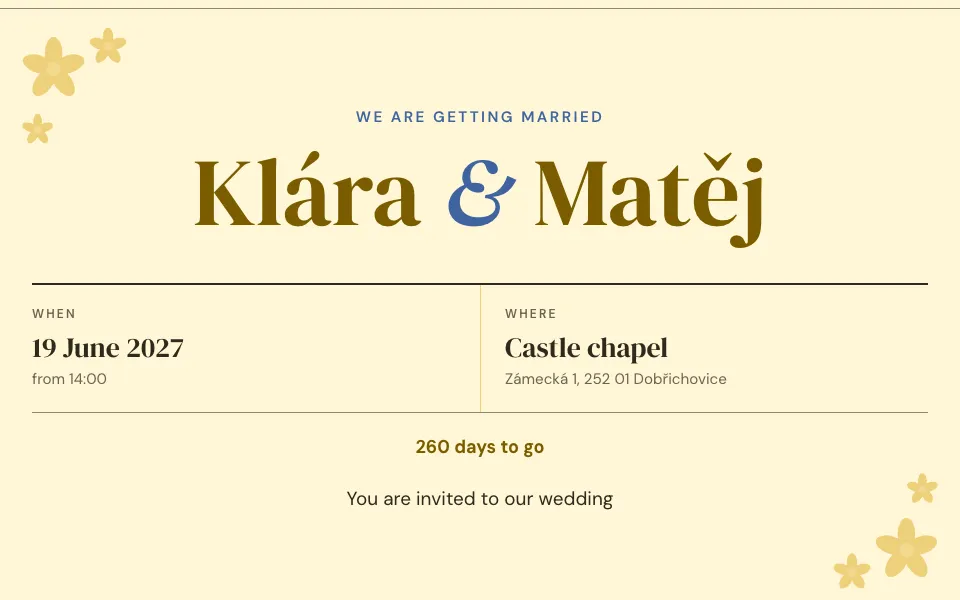
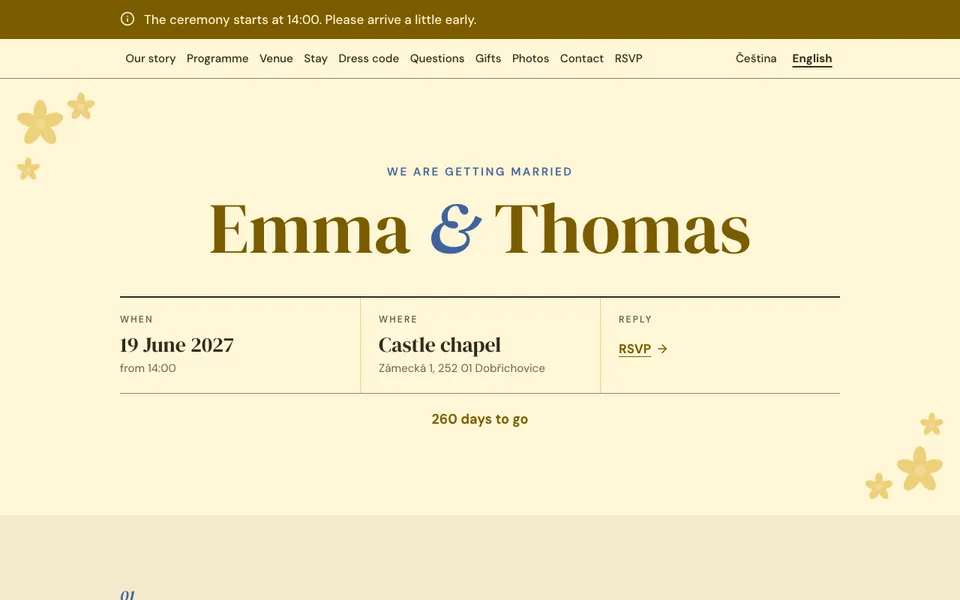
EN verze úvodního webu: ukázkový pár Emma a Thomas (formulář, adresa, snímky šablon, sdílený obrázek)
- adresa v náhledu hero používá anglickou spojku (emma-and-thomas)
- nové snímky šablon *-en.webp a public/og/se-vezmou-en.png
- docs/team.md: výjimka z ukázkových jmen pro anglickou verzi

Claude-Session: https://claude.ai/code/session_0194r2FrtvQ9j5deBs7E6sNY

diff --git a/e2e/landing.e2e.ts b/e2e/landing.e2e.ts
@@ -145,14 +145,18 @@ for (const locale of locales) {
 
       const hero = page.locator("section[aria-labelledby='hero-title']");
       const preview = hero.getByTestId("address-preview");
-      await expect(preview).toHaveText("klara-a-matej.se-vezmou.cz");
+      await expect(preview).toHaveText(
+        locale.code === "cs" ? "klara-a-matej.se-vezmou.cz" : "emma-and-thomas.se-vezmou.cz",
+      );
       await hero
         .getByLabel(locale.code === "cs" ? "První jméno" : "Your name", { exact: true })
         .fill("Šárka");
       await hero
         .getByLabel(locale.code === "cs" ? "Druhé jméno" : "Your partner’s name")
         .fill("Ondřej");
-      await expect(preview).toHaveText("sarka-a-ondrej.se-vezmou.cz");
+      await expect(preview).toHaveText(
+        locale.code === "cs" ? "sarka-a-ondrej.se-vezmou.cz" : "sarka-and-ondrej.se-vezmou.cz",
+      );
 
       const templates = hero.getByRole("group", {
         name: locale.code === "cs" ? "Šablona náhledu" : "Preview template",
@@ -245,7 +249,7 @@ for (const locale of locales) {
       await extra.screenshot({ path: test.info().outputPath(`cim-se-lisime-${locale.code}.png`) });
     });
 
-    test("šablony: osm skutečných snímků se jmény Klára a Matěj", async ({ page }) => {
+    test("šablony: osm skutečných snímků se jmény ukázkového páru", async ({ page }) => {
       await page.goto(pageUrl(HOSTS.marketing, locale.path));
       const previews = page.locator("#templates img");
       await expect(previews).toHaveCount(8);

diff --git a/src/components/landing/hero-studio.tsx b/src/components/landing/hero-studio.tsx
@@ -29,7 +29,7 @@ export interface HeroStudioProps {
 /**
  * Hero s živým náhledem: jména z formuláře se hned propíšou do adresy a do náhledu vybrané šablony.
  * Náhled je ozdoba (čtečky ho přeskočí); adresa v liště a přepínač šablon jsou přístupné.
- * Bez JavaScriptu zůstane formulář funkční (GET na průvodce) a náhled ukáže Kláru a Matěje.
+ * Bez JavaScriptu zůstane formulář funkční (GET na průvodce) a náhled ukáže ukázkový pár z textů (česky Klára a Matěj, anglicky Emma a Thomas).
  */
 export function HeroStudio(props: HeroStudioProps) {
   const { formLabels, templates } = props;
@@ -38,8 +38,9 @@ export function HeroStudio(props: HeroStudioProps) {
 
   const first = names.first.trim() || formLabels.firstPlaceholder;
   const second = names.second.trim() || formLabels.secondPlaceholder;
-  const slug = previewSlug(names.first, names.second);
-  const address = slug ?? previewSlug(formLabels.firstPlaceholder, formLabels.secondPlaceholder);
+  const slug = previewSlug(names.first, names.second, props.locale);
+  const address =
+    slug ?? previewSlug(formLabels.firstPlaceholder, formLabels.secondPlaceholder, props.locale);
 
   return (
     <div className="grid items-center gap-12 md:grid-cols-[1.05fr_1fr] lg:gap-16">

diff --git a/src/lib/slug-preview.ts b/src/lib/slug-preview.ts
@@ -12,10 +12,17 @@ function slugPart(value: string): string {
     .replace(/^-+|-+$/g, "");
 }
 
-/** `Klára`, `Matěj` -> `klara-a-matej`; bez obou jmen vrací `null`. */
-export function previewSlug(first: string, second: string): string | null {
+/** Spojka jmen v adrese podle jazyka: `klara-a-matej`, anglicky `emma-and-thomas`. */
+const JOINER = { cs: "a", en: "and" } as const;
+
+/** `Klára`, `Matěj` -> `klara-a-matej` (anglicky `emma-and-thomas`); bez obou jmen vrací `null`. */
+export function previewSlug(
+  first: string,
+  second: string,
+  locale: keyof typeof JOINER = "cs",
+): string | null {
   const a = slugPart(first);
   const b = slugPart(second);
   if (!a && !b) return null;
-  return [a, b].filter(Boolean).join("-a-");
+  return [a, b].filter(Boolean).join(`-${JOINER[locale]}-`);
 }

diff --git a/src/lib/slug-preview.test.ts b/src/lib/slug-preview.test.ts
@@ -1,0 +1,16 @@
+import { describe, expect, it } from "vitest";
+import { previewSlug } from "./slug-preview";
+
+describe("previewSlug", () => {
+  it("česky spojuje jména spojkou a", () => {
+    expect(previewSlug("Klára", "Matěj")).toBe("klara-a-matej");
+  });
+
+  it("anglicky spojuje jména spojkou and", () => {
+    expect(previewSlug("Emma", "Thomas", "en")).toBe("emma-and-thomas");
+  });
+
+  it("bez obou jmen vrací null", () => {
+    expect(previewSlug("!!!", "", "en")).toBeNull();
+  });
+});

diff --git a/docs/team.md b/docs/team.md
@@ -36,7 +36,7 @@ Definice rolí, pravidel spolupráce a společných standardů. Odkazuje na ni `
 - Čeština podle Pravidel českého pravopisu a české typografie; čeština a angličtina od začátku.
 - Přístupnost WCAG 2.2 AA je podmínka přijetí.
 - Next.js a Vercel, paleta a zadání podle dokumentu projektu.
-- Ukázková jména párů jsou Klára a Matěj, nikdy Patricie a Pavel.
+- Ukázková jména párů jsou Klára a Matěj, nikdy Patricie a Pavel. V anglické verzi úvodního webu (formulář, náhled, snímky šablon, sdílený obrázek) jsou Emma a Thomas, protože cílí na hosty ze zahraničí.
 
 ## Jak team funguje
 
